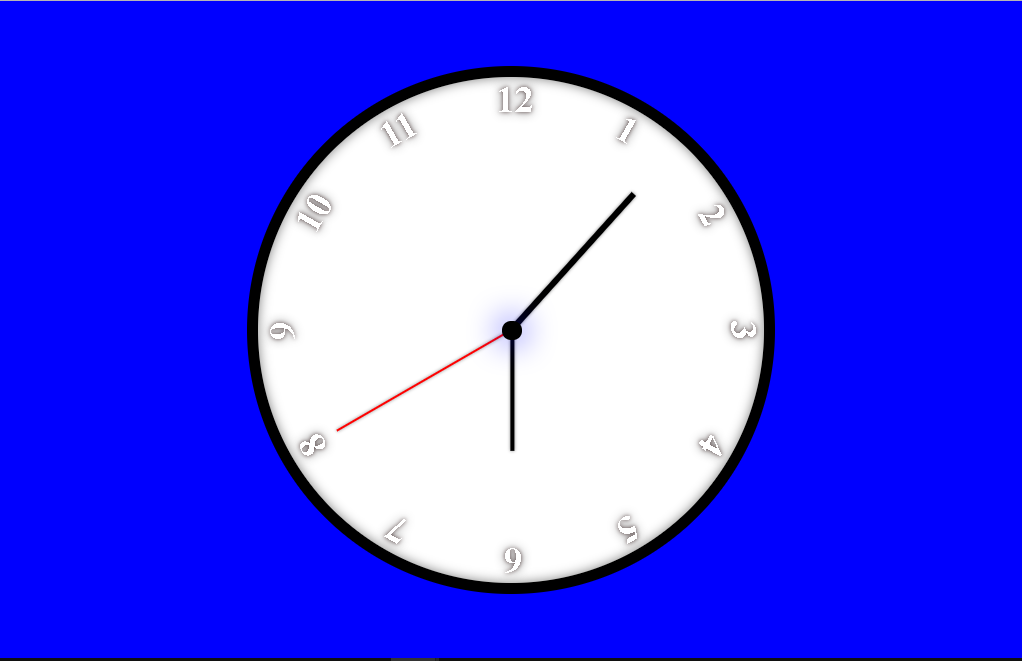
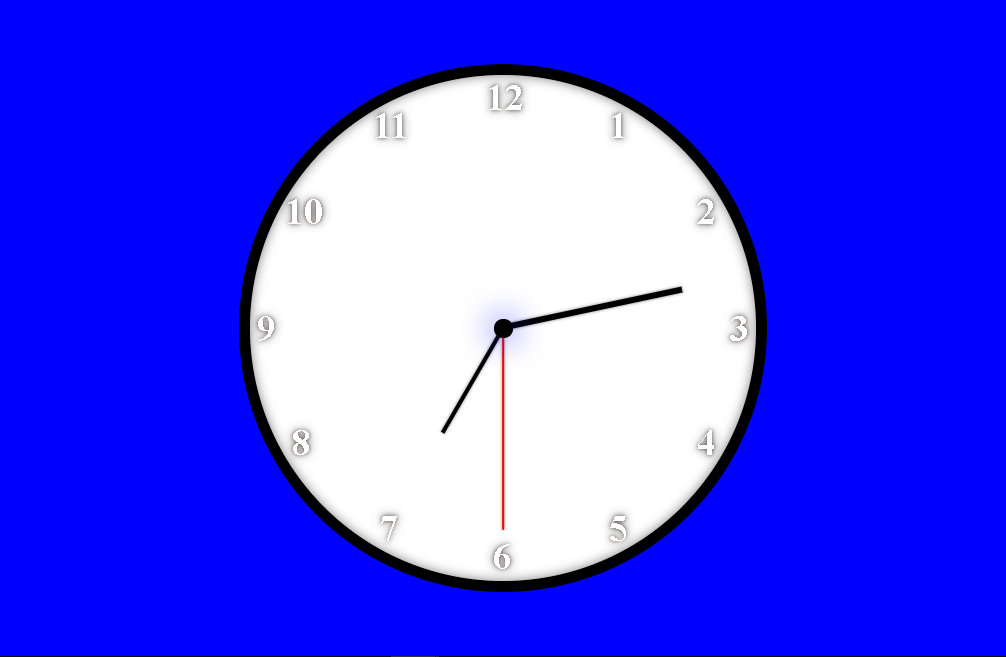
agregando ajuste en las horas

diff --git a/Reloj CSS + JS/style.css b/Reloj CSS + JS/style.css
@@ -36,44 +36,68 @@
       left: 47%;
   }
 
-  .clock .one {
-    transform: rotate(30deg);
+  .marker.one {
+    /* transform: rotate(30deg); */
+    top: 26px;
+    left: 320px;
   }
-  .clock .two {
-    transform: rotate(60deg);
+  .marker.two {
+    /* transform: rotate(60deg); */
+    top: 104px;
+    left: 400px;
   }
-  .clock .three {
-    transform: rotate(90deg);
-  }
-
-  .clock .fourt {
-    transform: rotate(120deg);
-  }
-  .clock .five {
-    transform: rotate(150deg);
-  }
-  .clock .six {
-    transform: rotate(180deg);
+  .marker.three {
+    /* transform: rotate(90deg); */
+    top: 210px;
+    left: 430px;
   }
 
-  .clock .seven {
-    transform: rotate(210deg);
+  .marker.fourt {
+    /* transform: rotate(120deg); */
+    top: 314px;
+    left: 400px;
   }
-  .clock .eigth {
-    transform: rotate(240deg);
+  .marker.five {
+    /* transform: rotate(150deg); */
+    top: 392px;
+    left: 320px;
   }
-  .clock .nine {
-    transform: rotate(270deg);
+  .marker.six {
+    /* transform: rotate(180deg); */
+    top: 418px;
+    left: 215px;
   }
 
-  .clock .ten {
-    transform: rotate(300deg);
+  .marker.seven {
+    /* transform: rotate(210deg); */
+    top: 392px;
+    left: 112px;
   }
-  .clock .eleven {
-    transform: rotate(330deg);
+  .marker.eigth {
+    /* transform: rotate(240deg); */
+    top: 314px;
+    left: 32px;
   }
-  .clock .twelve {
-    transform: rotate(360deg);
+  .marker.nine {
+    /* transform: rotate(270deg); */
+    top: 210px;
+    left: 0px;
+  }
+
+  .marker.ten {
+    /* transform: rotate(300deg); */
+    top: 104px;
+    left: 32px;
+  }
+  .marker.eleven {
+    /* transform: rotate(330deg); */
+    top: 26px;
+    left: 112px;
+  }
+  .marker.twelve {
+    /* transform: rotate(360deg); */
+    top: 0;
+    left: 215px;
   }
 
   .clock-face {
